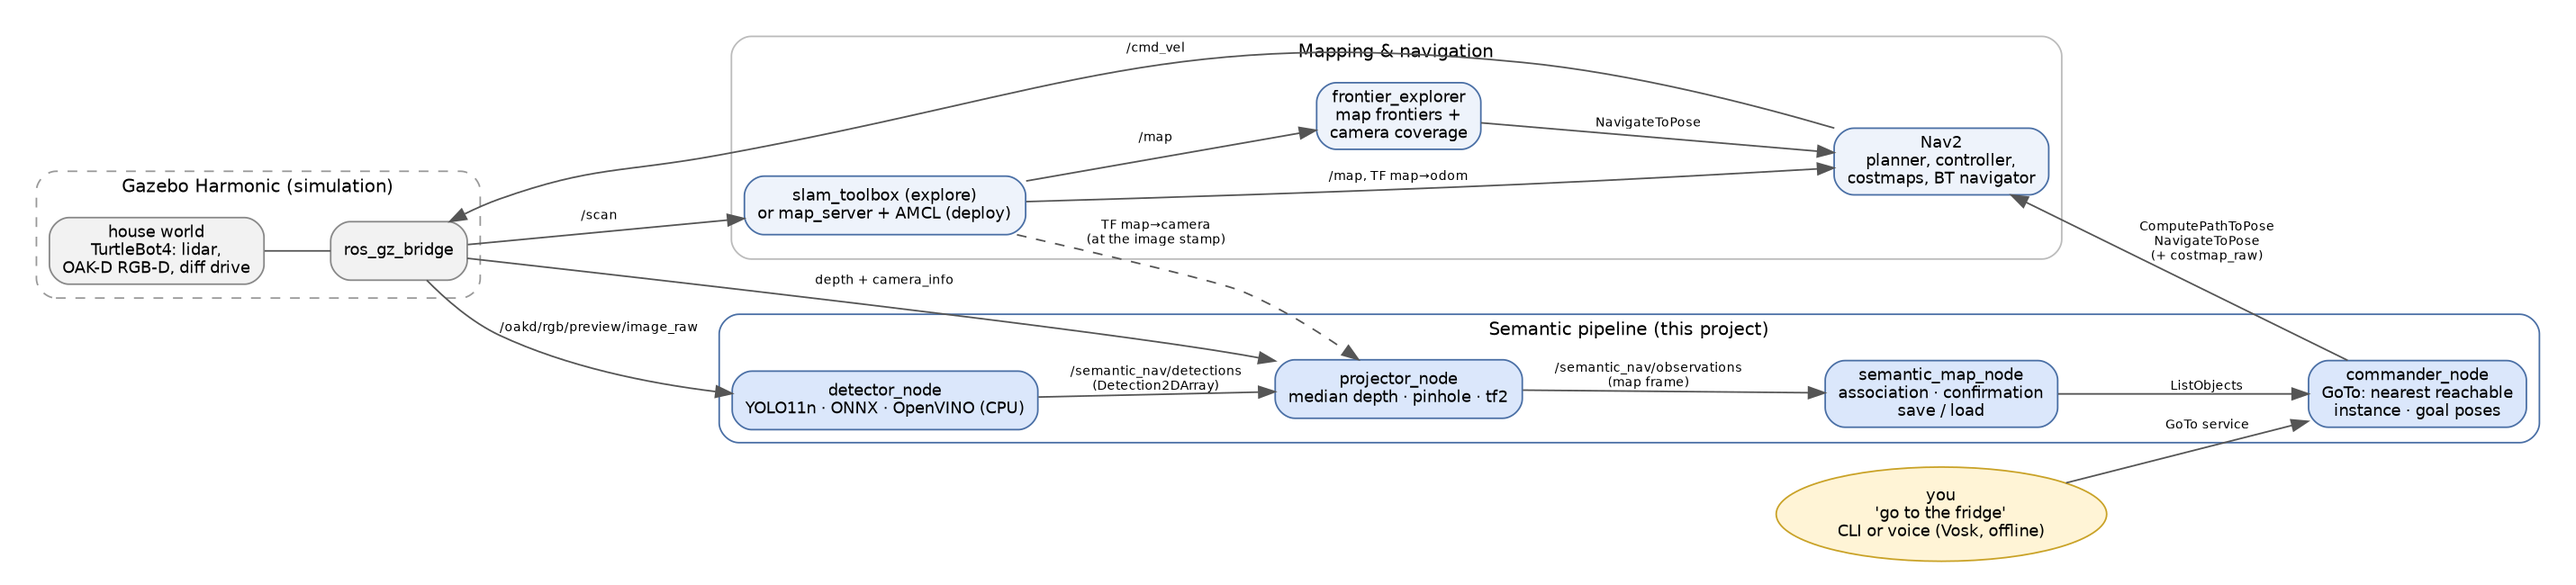
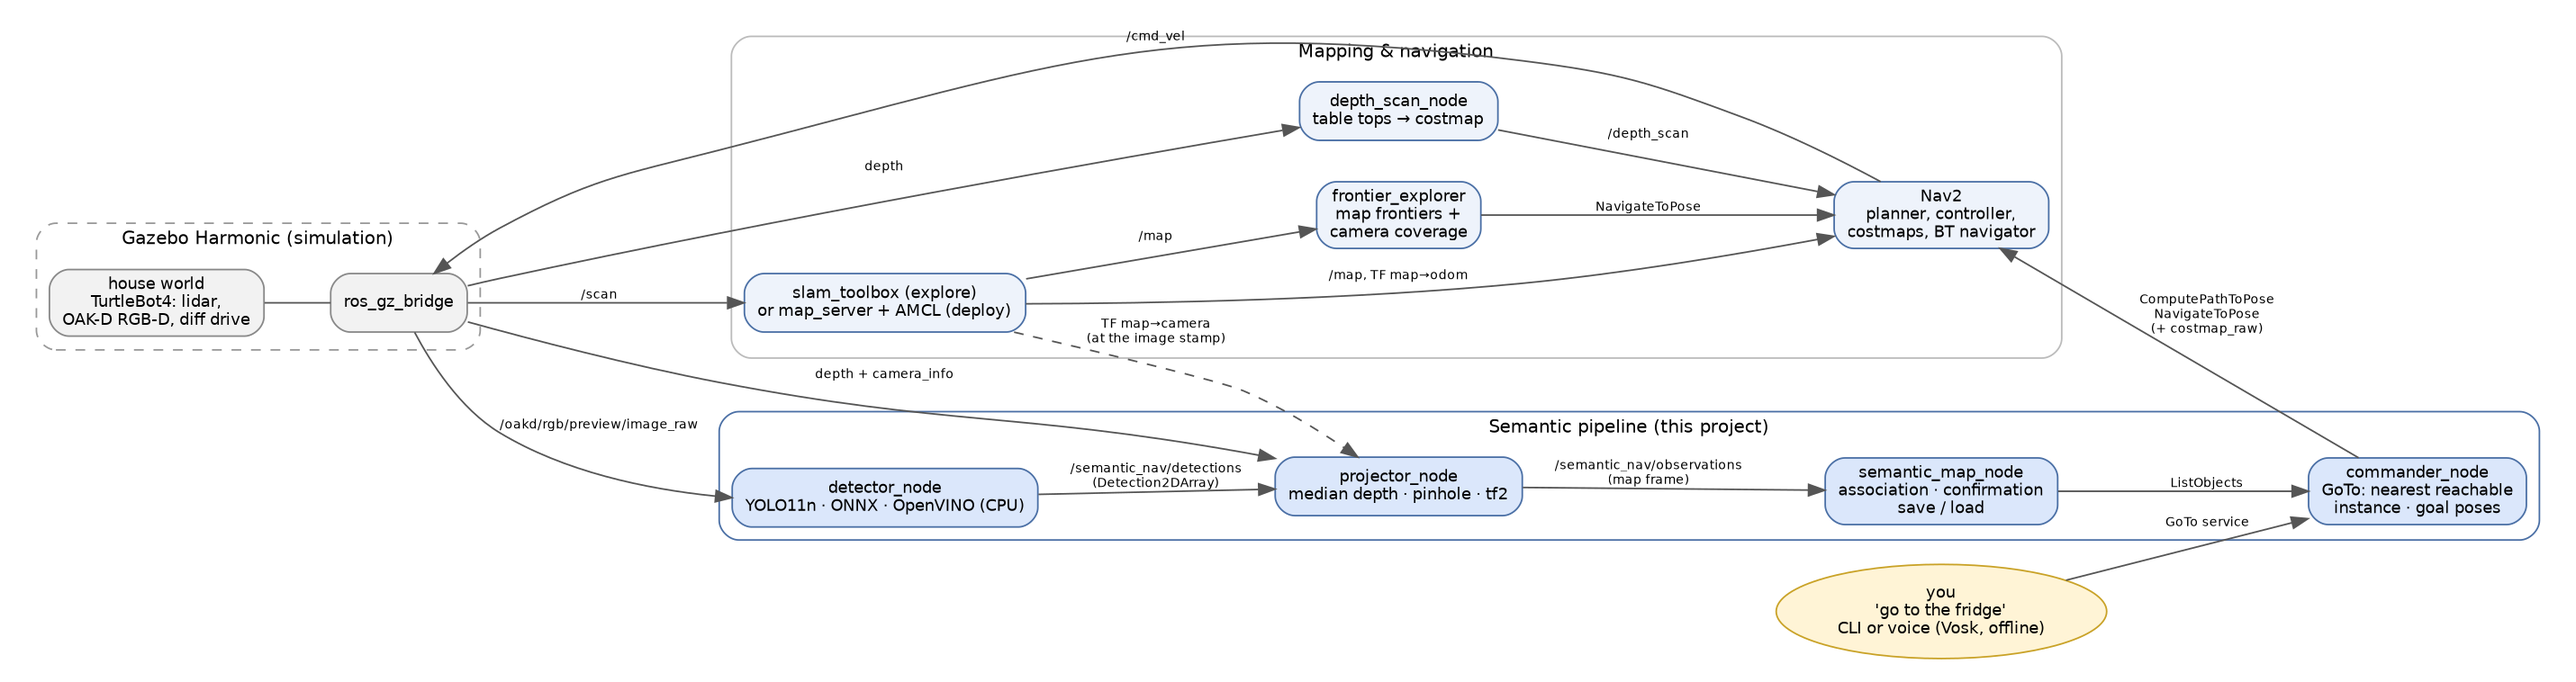
README: depth layer, final test count, architecture diagram update

diff --git a/README.md b/README.md
@@ -123,6 +123,7 @@ Every command, per subsystem, including voice control: [docs/USAGE.md](docs/USAG
 | `commander_node` | `ListObjects`, `/global_costmap/costmap_raw`, TF | service `/semantic_nav/go_to` (`GoTo`), `/semantic_nav/cancel`; actions `ComputePathToPose`, `NavigateToPose` |
 | `voice_command` | microphone (Vosk, offline, restricted grammar) | calls `go_to` / `cancel`; `/semantic_nav/voice/heard` |
 | `frontier_explorer` | `/map`, TF | `NavigateToPose` goals; `/semantic_nav/exploration/status` |
+| `depth_scan_node` | `/oakd/rgb/preview/depth` + `camera_info`, TF | `/depth_scan` (`LaserScan` of obstacles 0.05–1 m high) for a separate layer in Nav2's local costmap |
 
 **TF tree.** `map → odom` comes from slam_toolbox or AMCL. `odom → base_link` comes from the wheel odometry.
 `base_link → … → oakd_rgb_camera_optical_frame` comes from the URDF (fixed).
@@ -151,6 +152,8 @@ Detections are deprojected in the optical frame, then transformed to `map` with 
   - Per-class gates: beds and sofas are 2 m long.
   - A running mean, and confirmation after N sightings with a timeout for tentative tracks.
   - Atomic YAML save and load.
+- **Depth camera in the costmap.** A height-filtered scan from the depth image (table tops,
+  chair seats) feeds its own layer in the local costmap, so the lidar cannot clear it.
 - **Goal generation on the costmap.** Candidate poses on circles around the object. It rejects
   lethal, inscribed and unknown cells, and points that are only reachable "through the wall".
   The robot faces the object, and the nearest instance is chosen by *planned path length*.
@@ -172,10 +175,10 @@ Detections are deprojected in the optical frame, then transformed to `map` with 
   - Repeated-run statistics and auto-generated plots.
 - **Engineering.**
   - Parameters live in YAML; nodes have no hard-coded defaults.
-  - 294 tests: unit tests for all the maths (deprojection, association, goal generation,
+  - 301 tests: unit tests for all the maths (deprojection, association, goal generation,
     frontiers, scoring) plus flake8, pep257 and copyright lint.
   - CI on GitHub Actions, and a reproducible Docker image.
-  - A problems log with 84 entries.
+  - A problems log with 97 entries.
 
 ## Design decisions
 
@@ -201,8 +204,10 @@ Detections are deprojected in the optical frame, then transformed to `map` with 
   every viewpoint, and the commander then drives confidently to the wrong place.
 - **The evidence filter is fragile.** "Ignore instances seen < 25 % as often as the best one"
   once discarded the *real* couch because a phantom had more sightings.
-- **2D only.** The lidar sees table legs, not tabletops, so the robot can get stuck under a table.
-  The depth camera does not feed the costmap.
+- **Mostly 2D.** The lidar sees table legs, not tabletops, so the robot can get stuck under a table.
+  Since M9 a `depth_scan_node` puts what the camera sees (0.05–1 m high) into its own layer of
+  the *local* costmap, so the robot stops at a table it is looking at. The global planner still
+  cannot see table tops. A 3D voxel layer would be the full fix.
 - **Simulation only.** It uses one house, perfect depth and known textures; the numbers will be
   worse on a real robot.
 - **Three runs.** The 95 % interval on the mean GoTo success is about ±36 points. That is enough
@@ -218,7 +223,8 @@ Ordered by measured impact on GoTo success:
    lose belief. This removes the consistent phantoms behind 13 of the 17 failures.
 3. **Fine-tune the detector on robot-height views.** The capture tool and the Colab notebook
    already exist (`tools/finetune_yolo_colab.ipynb`). Alternatively, mount the camera higher.
-4. **Depth camera in the Nav2 costmap** (voxel layer), so tables count as obstacles.
+4. **Full 3D costmap** (voxel layer from the depth camera). The M9 `depth_scan_node` is the
+   cheap 2D version of this.
 5. **A real TurtleBot 4.** Discovery server and QoS tuning, camera calibration, a measured
    ground truth, and the same benchmark.
 6. **Open-vocabulary detection** (e.g. YOLO-World or CLIP features) and a 3D scene graph:
@@ -241,7 +247,7 @@ docs/                         architecture diagram, usage by milestone, problems
 ## Development
 
 ```bash
-colcon test && colcon test-result --verbose     # 294 tests
+colcon test && colcon test-result --verbose     # 301 tests
 tools/ci_local.sh                               # the CI job, in the same container, on a clean tree
 tools/run_benchmarks.sh 1 3 && python3 tools/make_results.py   # reproduce the results (~2 h)
 ```
